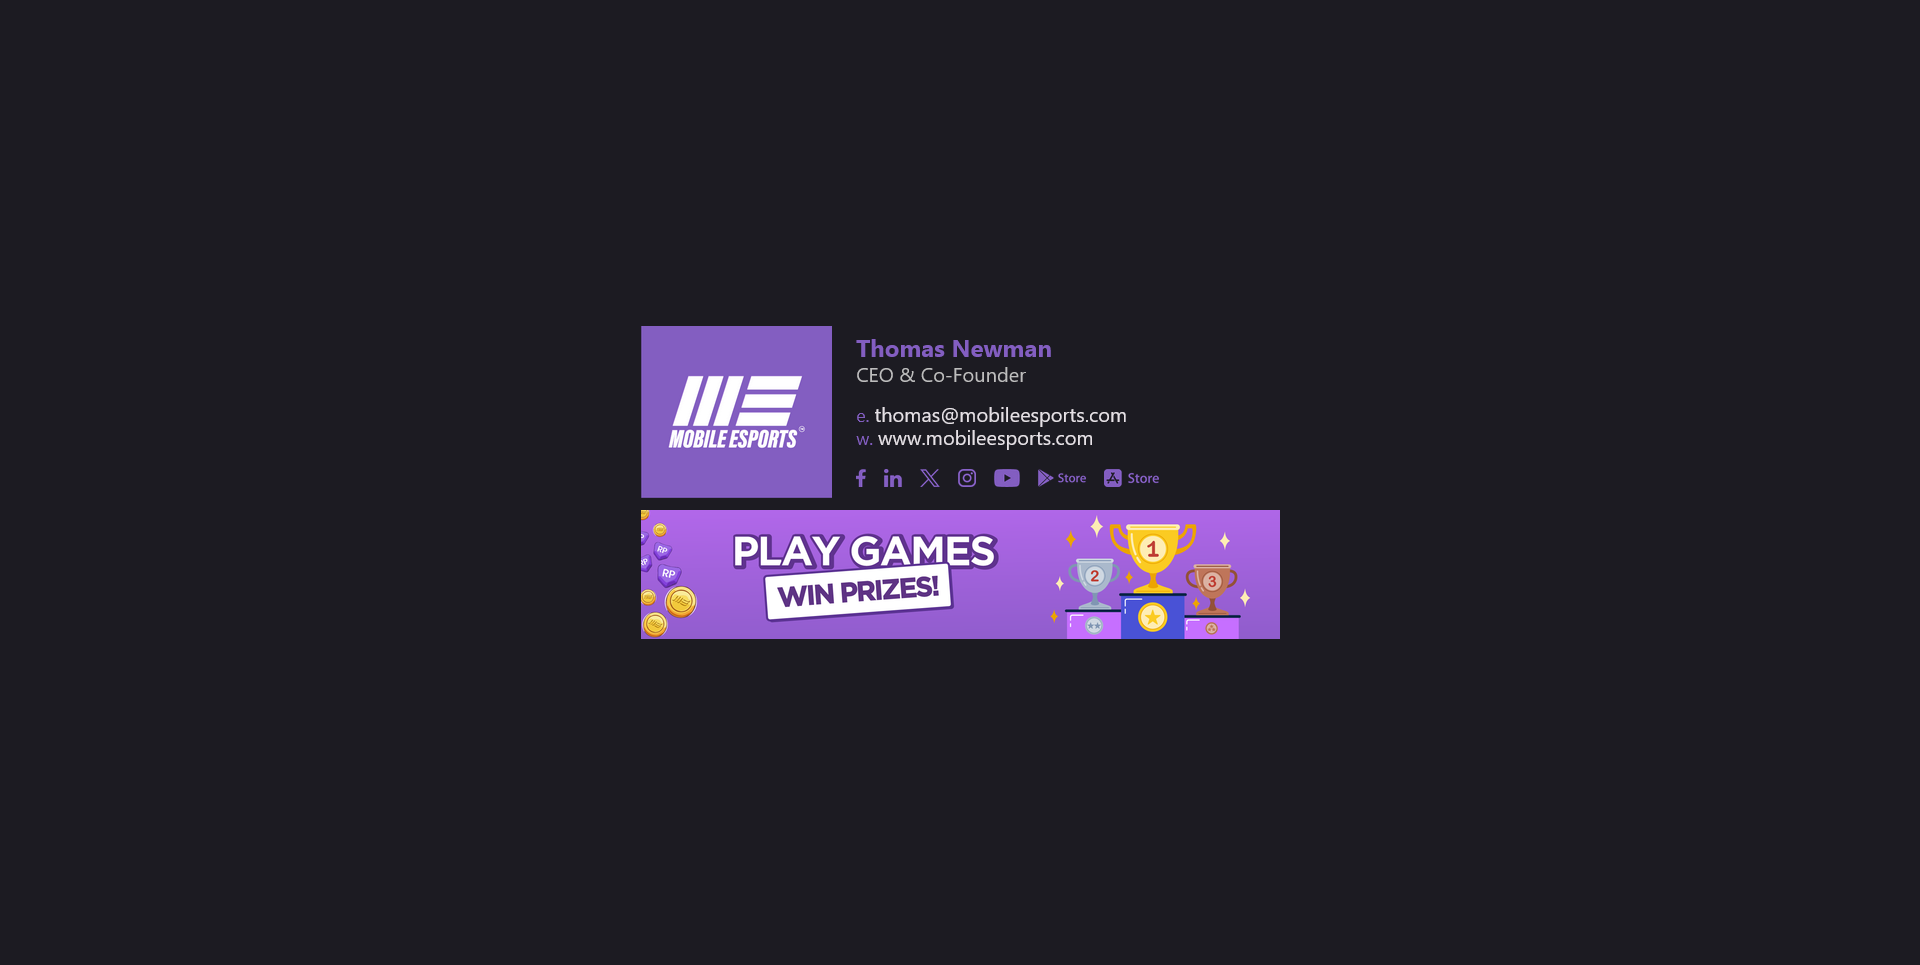
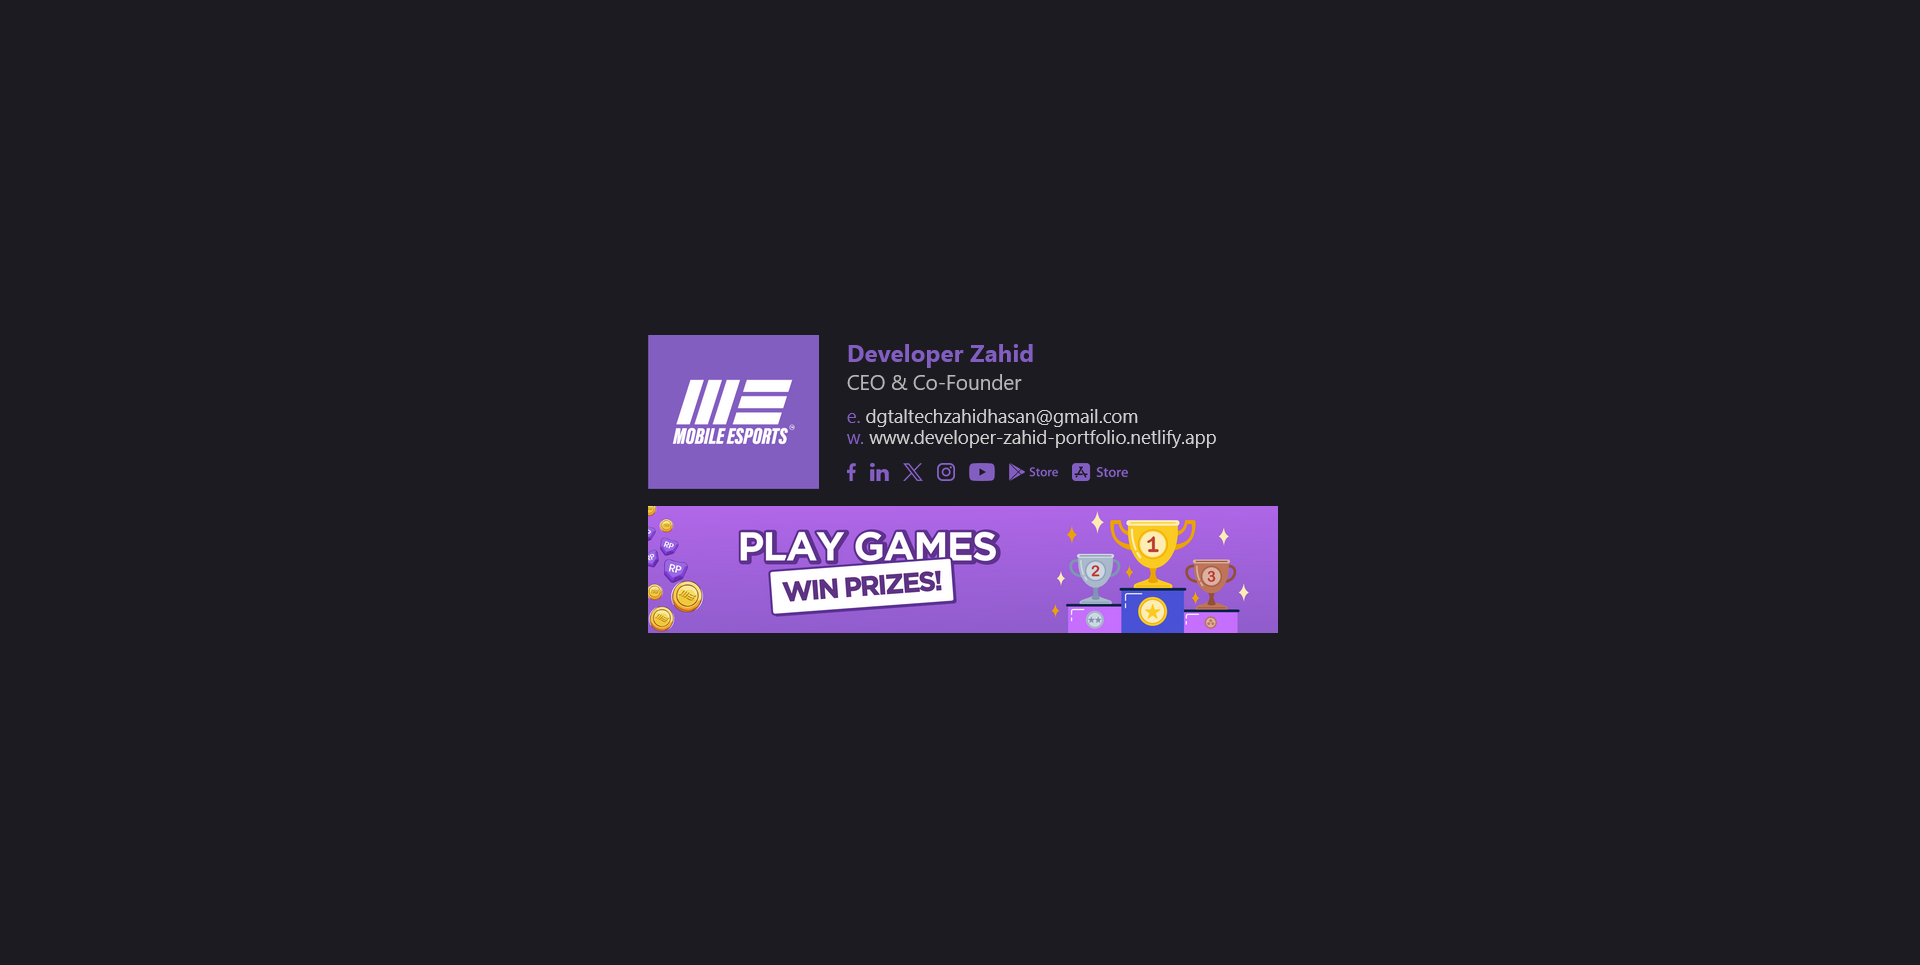
Changed images

Changed region(s): [[0.3125, 0.3109, 0.6562, 0.6839]]

diff --git a/index.html b/index.html
@@ -3,7 +3,7 @@
 <head>
     <meta charset="UTF-8">
     <meta name="viewport" content="width=device-width, initial-scale=1.0">
-    <title>Thomas Newman Clickable HTML Email Signature</title>
+    <title>Developer Zahid Clickable HTML Email Signature</title>
     <link rel="stylesheet" href="./assets/css/style.css">
 </head>
 <body style="margin: 0;">
@@ -13,22 +13,22 @@
                 <table border="0" cellspacing="0" cellpadding="0" width="100%" style="width: 100%; border-collapse: collapse;">
                     <tr>
                         <td cellspacing="0" cellpadding="0" style="display: inline-block; border-collapse: collapse; padding-right: 15px; padding-bottom: 12px;">
-                            <a href="https://www.mobileesports.com/" target="_blank" title="Mobile Esports" style="display: block;">
+                            <a href="https://developer-zahid-portfolio.netlify.app/" target="_blank" title="Mobile Esports" style="display: block;">
                                 <img src="./assets/images/logo.png" alt="logo" loading="lazy" draggable="false" border="0" height="110" style="display: block; max-width: 100%; height: auto; max-height: 110px; border: 0;" />
                             </a>
                         </td>
                         <td cellspacing="0" cellpadding="0" style="display: inline-block; border-collapse: collapse; padding-bottom: 12px;">
                             <p style="color: #835ec1; font-size: 13pt; line-height: 1; margin: 0; margin-bottom: 5px;">
-                                <strong style="display: block; font-weight: bold;">Thomas Newman</strong>
+                                <strong style="display: block; font-weight: bold;">Developer Zahid</strong>
                             </p>
                             <p style="color: #656668; font-size: 11pt; line-height: 1; margin: 0; margin-bottom: 10px;"><span>CEO & Co-Founder</span></p>
                             <p style="font-size: 10pt; line-height: 1; font-weight: 500; margin: 0; margin-bottom: 2px;">
                                 <span style="color: #835ec1; line-height: 1;">e.&#32;</span>
-                                <a href="mailto:thomas@mobileesports.com" target="_blank" style="color: #3d3b3d; text-decoration: none; line-height: 1;">thomas@mobileesports.com</a>
+                                <a href="mailto:dgtaltechzahidhasan@gmail.com" target="_blank" style="color: #3d3b3d; text-decoration: none; line-height: 1;">dgtaltechzahidhasan@gmail.com</a>
                             </p>
                             <p style="font-size: 10pt; line-height: 1; font-weight: 500; margin: 0; margin-bottom: 10px;">
                                 <span style="color: #835ec1; line-height: 1;">w.&#32;</span>
-                                <a href="https://www.mobileesports.com/" target="_blank" style="color: #3d3b3d; text-decoration: none; line-height: 1;">www.mobileesports.com</a>
+                                <a href="https://developer-zahid-portfolio.netlify.app/" target="_blank" style="color: #3d3b3d; text-decoration: none; line-height: 1;">www.developer-zahid-portfolio.netlify.app</a>
                             </p>
                             <p style="font-size: 0px; margin: 0;">
                                 <a href="https://www.facebook.com/mobileesports" target="_blank" title="facebook" style="display: inline-block; padding: 2px; padding-left: 0; margin-right: 6px;">
@@ -60,7 +60,7 @@
         </tr>
         <tr>
             <td cellspacing="0" cellpadding="0" style="border-collapse: collapse;">
-                <a href="https://www.mobileesports.com/" target="_blank" title="Play game" style="display: block;">
+                <a href="https://developer-zahid-portfolio.netlify.app/" target="_blank" title="Play game" style="display: block;">
                     <img src="./assets/images/banner.png" alt="banner" loading="lazy" draggable="false" border="0" height="130" style="display: block; max-width: 100%; height: auto; border: 0;" />
                 </a>
             </td>
